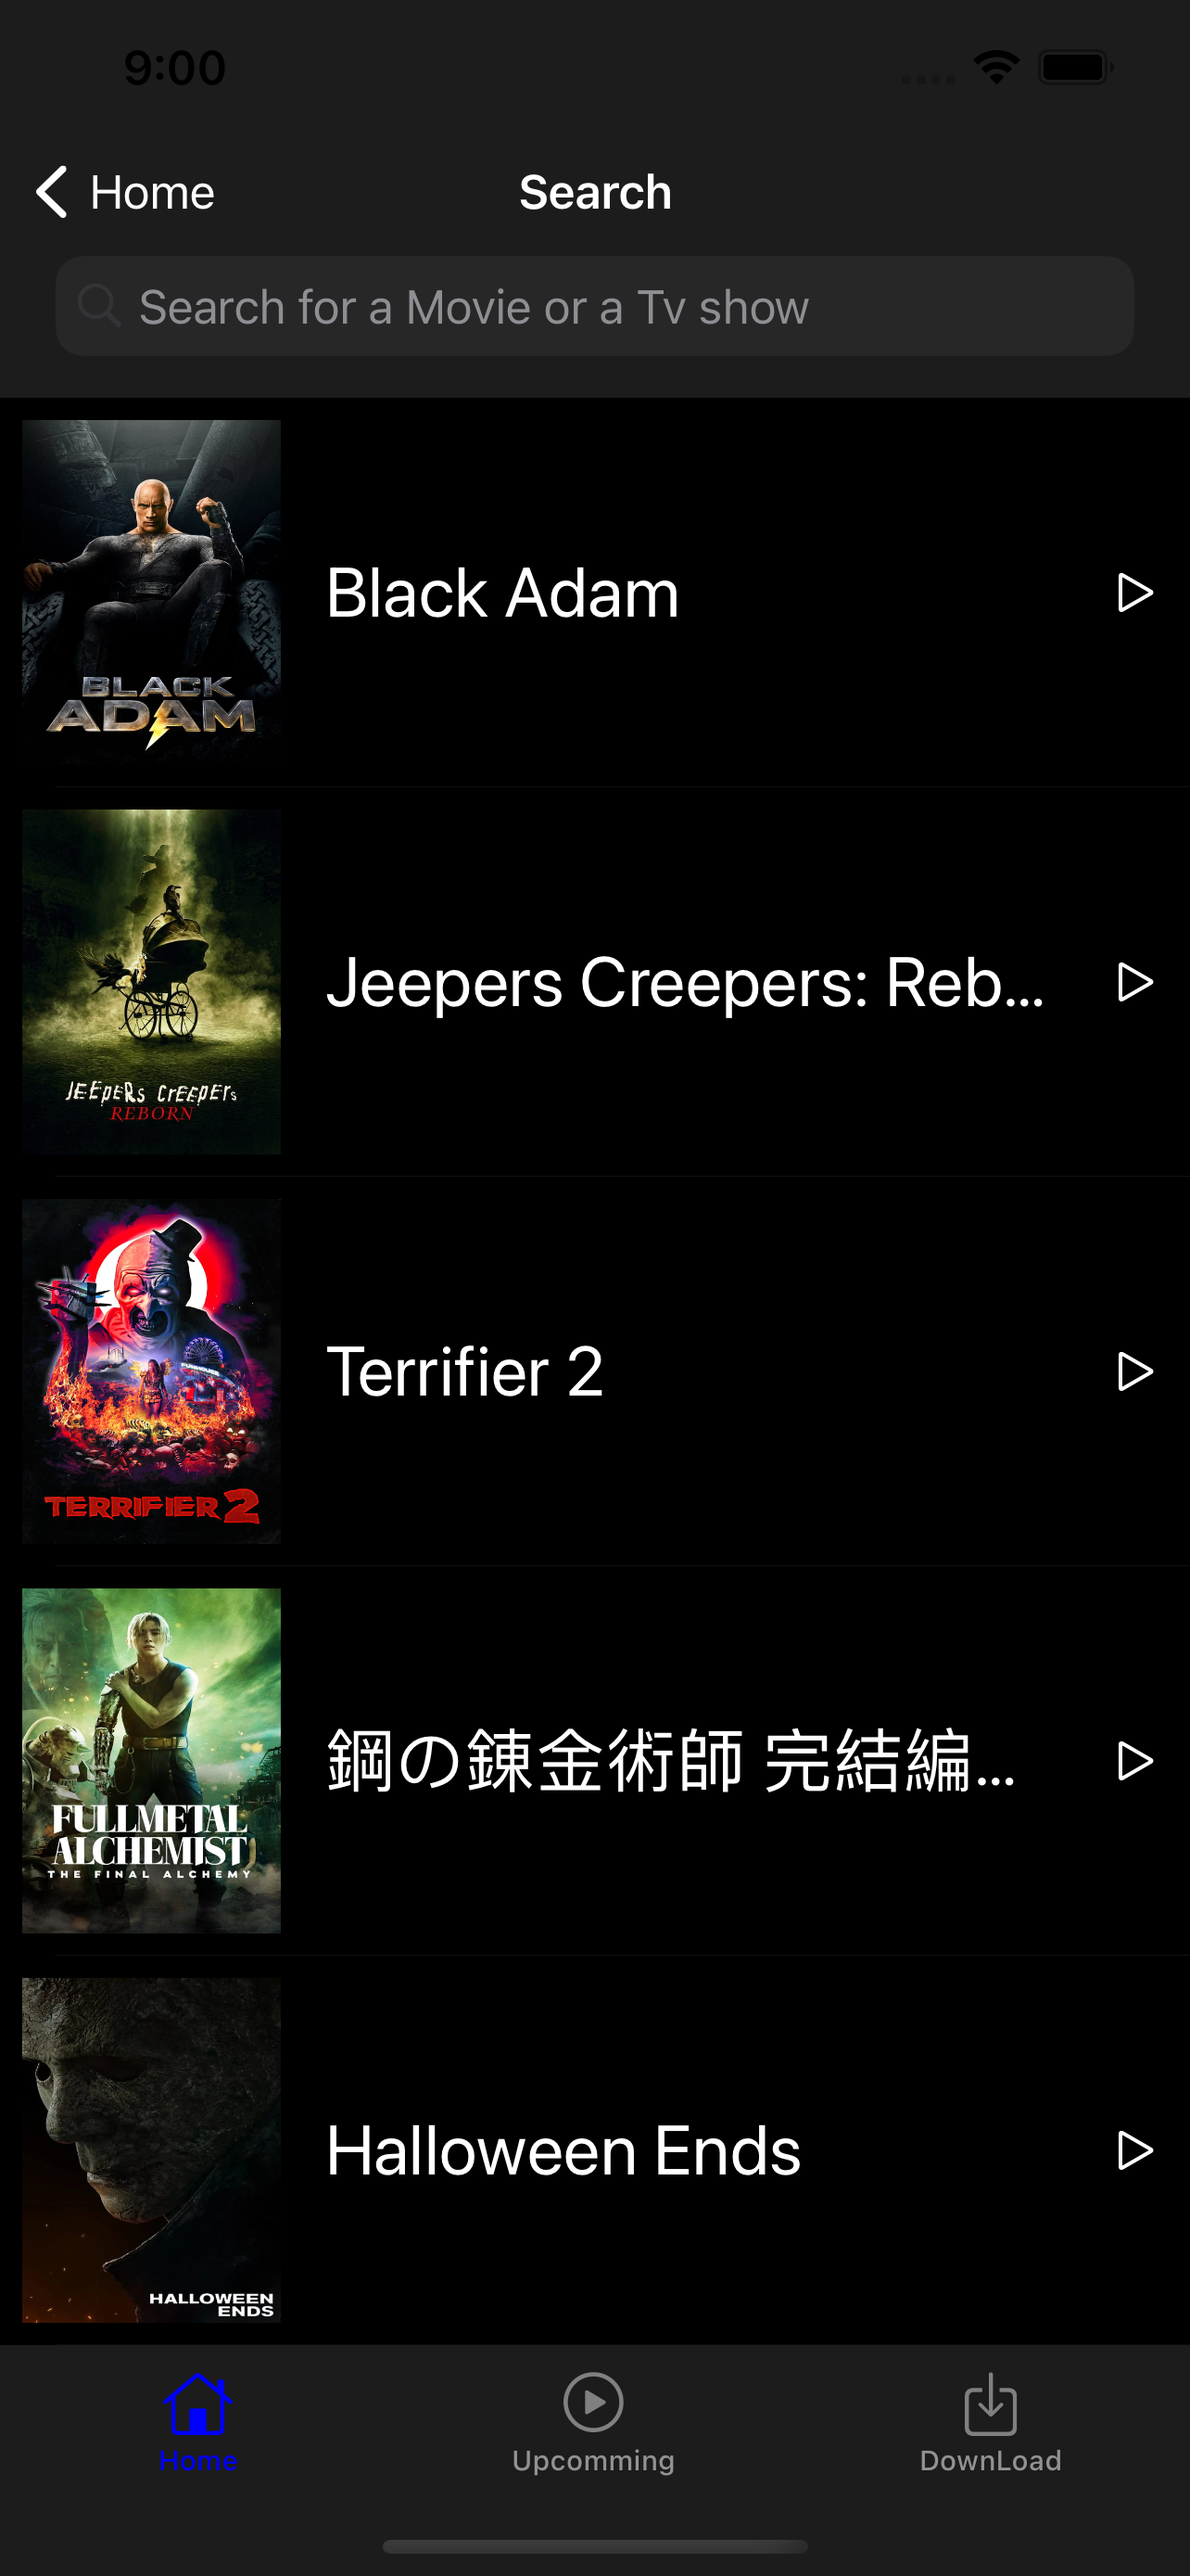
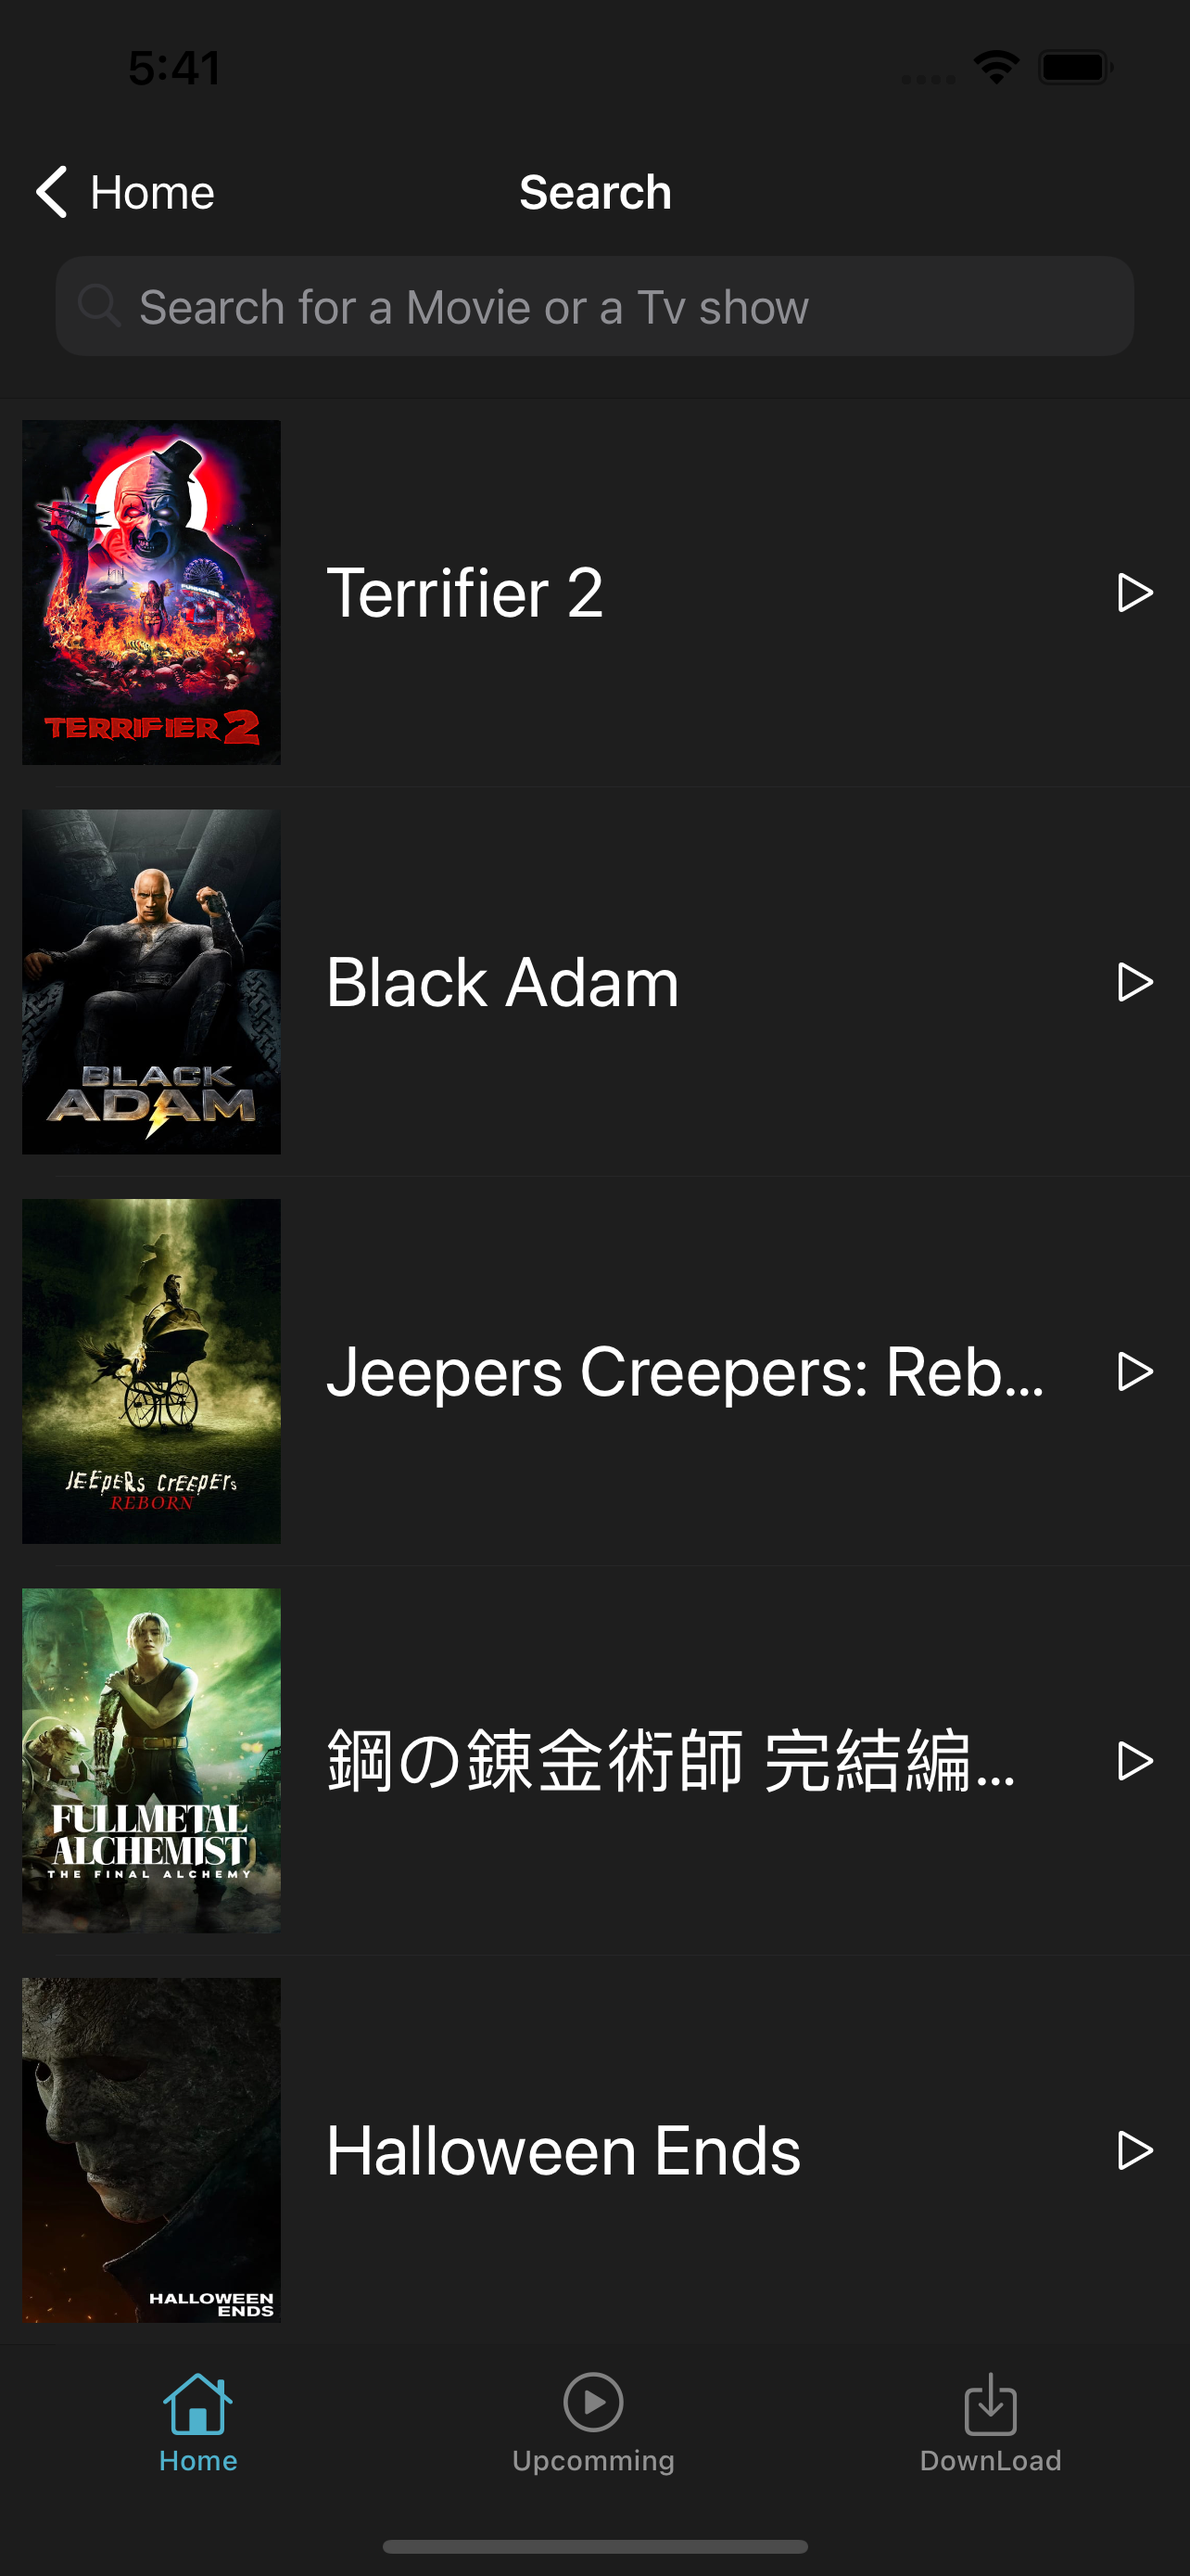
fix ui

diff --git a/Tmdb/Controller/TabBarController/DownLoad/DownloadViewController.swift b/Tmdb/Controller/TabBarController/DownLoad/DownloadViewController.swift
@@ -277,14 +277,43 @@ extension DownloadViewController: UICollectionViewDataSource, UICollectionViewDe
         return cell
     }
     func collectionView(_ collectionView: UICollectionView, didSelectItemAt indexPath: IndexPath) {
-        collectionView.deselectItem(at: indexPath, animated: true)
+//        collectionView.deselectItem(at: indexPath, animated: true)
+//
+//        let filmItem = filmItems[indexPath.row]
+//        let film = Film(adult: filmItem.adult, backdropPath: "", id: Int(filmItem.id), originalLanguage: filmItem.original_language, originalName: filmItem.original_name, originalTitle: filmItem.original_title, overview: filmItem.overview, posterPath: filmItem.poster_path, mediaType: filmItem.media_type, genreIds: nil, popularity: filmItem.popularity, releaseDate: filmItem.release_date, firstAirDate: nil, voteAverage: filmItem.vote_average, voteCount: filmItem.vote_count, originCountry: nil)
+//        let vc = PlayerViewController(film: film)
+//        vc.modalPresentationStyle = .fullScreen
+//        present(vc, animated: true, completion: nil)
         
-        let filmItem = filmItems[indexPath.row]
-        let film = Film(adult: filmItem.adult, backdropPath: "", id: Int(filmItem.id), originalLanguage: filmItem.original_language, originalName: filmItem.original_name, originalTitle: filmItem.original_title, overview: filmItem.overview, posterPath: filmItem.poster_path, mediaType: filmItem.media_type, genreIds: nil, popularity: filmItem.popularity, releaseDate: filmItem.release_date, firstAirDate: nil, voteAverage: filmItem.vote_average, voteCount: filmItem.vote_count, originCountry: nil)
-        let vc = PlayerViewController(film: film)
-        vc.modalPresentationStyle = .fullScreen
-        present(vc, animated: true, completion: nil)
+    }
+    func collectionView(_ collectionView: UICollectionView, contextMenuConfigurationForItemAt indexPath: IndexPath, point: CGPoint) -> UIContextMenuConfiguration? {
         
+        let config = UIContextMenuConfiguration(
+            identifier: nil,
+            previewProvider: nil) {[weak self] _ in
+            
+            let deleteAction = UIAction(title: "Delete".localized(), image: nil, identifier: nil, discoverabilityTitle: nil, state: .off){_ in
+                    self?.deleteData(index: indexPath.row)
+                    self?.fetchLocalStorageForDownload()
+                    self?.dismiss(animated: true, completion: nil)
+                }
+                return UIMenu(title: "", image: nil, identifier: nil, options: .displayInline, children: [deleteAction])
+            }
+        return config
+    }
+    func tableView(_ tableView: UITableView, contextMenuConfigurationForRowAt indexPath: IndexPath, point: CGPoint) -> UIContextMenuConfiguration? {
+        let config = UIContextMenuConfiguration(
+            identifier: nil,
+            previewProvider: nil) {[weak self] _ in
+           
+            let deleteAction = UIAction(title: "Delete".localized(), image: nil, identifier: nil, discoverabilityTitle: nil, state: .off){_ in
+                self?.deleteData(index: indexPath.row)
+                self?.fetchLocalStorageForDownload()
+                self?.dismiss(animated: true, completion: nil)
+                }
+                return UIMenu(title: "", image: nil, identifier: nil, options: .displayInline, children: [deleteAction])
+            }
+        return config
     }
     func scrollViewDidScroll(_ scrollView: UIScrollView) {
         if let collectionView = scrollView as? UICollectionView {

diff --git a/Tmdb/Controller/TabBarController/MainTabBarViewController.swift b/Tmdb/Controller/TabBarController/MainTabBarViewController.swift
@@ -24,38 +24,47 @@ class MainTabBarViewController: UITabBarController {
     override func viewDidLoad() {
         super.viewDidLoad()
         
-        setupTabbar()
+        setupUI()
         getProfileData()
     }
     
     override func viewWillAppear(_ animated: Bool) {
         super.viewWillAppear(true)
        
-        applyLocalization()
-        styleUIComponents()
+        setupTitle()
+        setupIcon()
     }
     
-    func setupTabbar(){
+    private func setupUI(){
+        setupTabbar()
+        setupTabbar()
+    }
+    
+    private func setuNav(){
+        
+    }
+    
+    private func setupTabbar(){
         
         UINavigationBar.appearance().tintColor = .white
         UINavigationBar.appearance().barTintColor = UIColor.naviBackground()
         self.tabBarController?.tabBar.backgroundColor = UIColor.tabbarBackground()
         self.tabBar.barTintColor = UIColor.tabbarBackground()
-        self.tabBar.tintColor = .blue
+        self.tabBar.tintColor = UIColor.toggleButtonColor()
         setupViewControllers()
     
         
     }
     
     
-    func styleUIComponents() {
+    func setupIcon() {
         for (index, item) in (self.tabBar.items ?? []).enumerated() {
             item.image = UIImage(systemName: MainTabBarViewController.menu[index].icon)
                 
         }
     }
     
-    func applyLocalization() {
+    func setupTitle() {
         for (index, item) in (self.tabBar.items ?? []).enumerated() {
             item.title = MainTabBarViewController.menu[index].title
         }

diff --git a/Tmdb/CustomView/ToggleView.swift b/Tmdb/CustomView/ToggleView.swift
@@ -35,7 +35,6 @@ class ToggleView:UIView{
     private let tvsButton: UIButton = {
         let button = UIButton()
         button.setTitleColor(UIColor.labelColor(), for: .normal)
-        button.setTitleColor(.red, for: .highlighted)
         button.backgroundColor = UIColor.buttonBackground()
         button.setTitle("Tv".localized(), for: .normal)
         return button
@@ -98,13 +97,14 @@ class ToggleView:UIView{
         if state == .movie {
             indicatorView.frame = CGRect(x: 0, y: movieButton.bottom, width: 100, height: 3)
 
-            movieButton.setTitleColor(.blue, for: .normal)
+            movieButton.setTitleColor(UIColor.toggleButtonColor(), for: .normal)
             tvsButton.setTitleColor(UIColor.labelColor(), for: .normal)
         } else {
             indicatorView.frame = CGRect(x: 100, y: tvsButton.bottom, width: 100, height: 3)
             movieButton.setTitleColor(UIColor.labelColor(), for: .normal)
-            tvsButton.setTitleColor(.blue, for: .normal)
+            tvsButton.setTitleColor(UIColor.toggleButtonColor(), for: .normal)
         }
+
     }
     func update(for state: ToggleState) {
         self.state = state

diff --git a/Tmdb/Controller/Profile/Profile/Logoutcell/LogoutTableViewCell.swift b/Tmdb/Controller/Profile/Profile/Logoutcell/LogoutTableViewCell.swift
@@ -23,7 +23,7 @@ class LogoutTableViewCell: UITableViewCell {
     private func setupUI(){
         logoutButton.layer.cornerRadius = 0
         logoutButton.setTitle("LogOut".localized(), for: .normal)
-        logoutButton.setTitleColor(.blue, for: .normal)
+        logoutButton.setTitleColor(UIColor.toggleButtonColor(), for: .normal)
         logoutButton.backgroundColor = .darkGray
         backgroundColor = UIColor.cellBackground()
     }

diff --git a/Tmdb/Extension/UIColor-Extension.swift b/Tmdb/Extension/UIColor-Extension.swift
@@ -22,6 +22,10 @@ extension UIColor {
         }
 //        return UIColor(red: 30/255, green: 30/255, blue: 30/255, alpha: 1)
     }
+    
+    class func toggleButtonColor() -> UIColor {
+        return UIColor(red: 78/255, green: 177/255, blue: 204/255, alpha: 1.00)
+    }
     class func popupBackground() -> UIColor {
         return UIColor(red: 30/255, green: 30/255, blue: 30/255, alpha: 0.5)
     }

diff --git a/README.md b/README.md
@@ -1,5 +1,49 @@
 # TMDB
- 
+#  Ứng dụng quản lý phim
+
+-  Tra cứu thông tin các bộ phim đang nổi, các bộ phim được đánh giá cao trong quá khứ, giúp người dùng có thể lựa chọn bộ phim phù hợp với mình
+-  Lưu trữ, tạo danh danh sách tuỳ chọn để dễ dàng tìm lại
+
  ## Ảnh chụp màn hình
 
  <kbd><img src="Tmdb/Demo/Image/Login.png" alt="Login" width="250"/></kbd> 
+ <kbd><img src="Tmdb/Demo/Image/Signup.png" alt="Signup" width="250"/></kbd> 
+ <kbd><img src="Tmdb/Demo/Image/Loading.png" alt="Loading" width="250"/></kbd> 
+ <kbd><img src="Tmdb/Demo/Image/Home.png" alt="Home" width="250"/></kbd> 
+ <kbd><img src="Tmdb/Demo/Image/Search.png" alt="Search" width="250"/></kbd> 
+ <kbd><img src="Tmdb/Demo/Image/SearchResult.png" alt="SearchResult" width="250"/></kbd> 
+ <kbd><img src="Tmdb/Demo/Image/PopupDetail.png" alt="PopupDetail" width="250"/></kbd> 
+ <kbd><img src="Tmdb/Demo/Image/NewList.png" alt="NewList" width="250"/></kbd> 
+ <kbd><img src="Tmdb/Demo/Image/Library.png" alt="Library" width="250"/></kbd> 
+ <kbd><img src="Tmdb/Demo/Image/NoLibrary.png" alt="NoLibrary" width="250"/></kbd> 
+ <kbd><img src="Tmdb/Demo/Image/Profile.png" alt="Profile" width="250"/></kbd> 
+ <kbd><img src="Tmdb/Demo/Image/PlayerView.png" alt="PlayerView" width="250"/></kbd> 
+ <kbd><img src="Tmdb/Demo/Image/Preview.png" alt="Preview" width="250"/></kbd> 
+ <kbd><img src="Tmdb/Demo/Image/ShowMore.png" alt="ShowMore" width="250"/></kbd> 
+ <kbd><img src="Tmdb/Demo/Image/Share.png" alt="ShowMore" width="250"/></kbd> 
+
+
+## Thao tác
+<kbd><img src="Tmdb/Demo/Gif/LoginFail.gif" alt="LoginFail" width="250"/></kbd> 
+<kbd><img src="Tmdb/Demo/Gif/LoginSuccess.gif" alt="LoginSuccess" width="250"/></kbd> 
+<kbd><img src="Tmdb/Demo/Gif/SketchyHeader.gif" alt="SketchyHeader" width="250"/></kbd> 
+<kbd><img src="Tmdb/Demo/Gif/Search.gif" alt="Search" width="250"/></kbd> 
+<kbd><img src="Tmdb/Demo/Gif/Download.gif" alt="Download" width="250"/></kbd> 
+<kbd><img src="Tmdb/Demo/Gif/WatchList.gif" alt="WatchList" width="250"/></kbd> 
+<kbd><img src="Tmdb/Demo/Gif/ChangeLanguage.gif" alt="ChangeLanguage" width="250"/></kbd> 
+<kbd><img src="Tmdb/Demo/Gif/Library.gif" alt="Library" width="250"/></kbd> 
+
+
+
+## Chức năng chính
+- Tạo và đăng nhập tài khoản
+- Thêm, sửa, xoá, tuỳ chọn danh sách, yêu thích, hoặc lưu lại  các bộ phim 
+- Một vài custom animation nhỏ cho present, navigaton hay cell của tableview, collection view
+-  Xem trailer phim 
+- Test và dev trên ios 15, không hỗ trợ lanscape
+
+## Mục tiêu của project
+- Thực hành call API: Get, post, delete..
+- Thực hành việc tuỳ biến giao diện của các thành phần cơ bản như button, collectionView, tableView
+- Thực hành và tìm hiểu các animation cơ bản với các thành phần trên cũng như khi dùng present và navigation
+- Tối ưu code, thực hành chia nhỏ modul, reuse code, mô hình MVC
